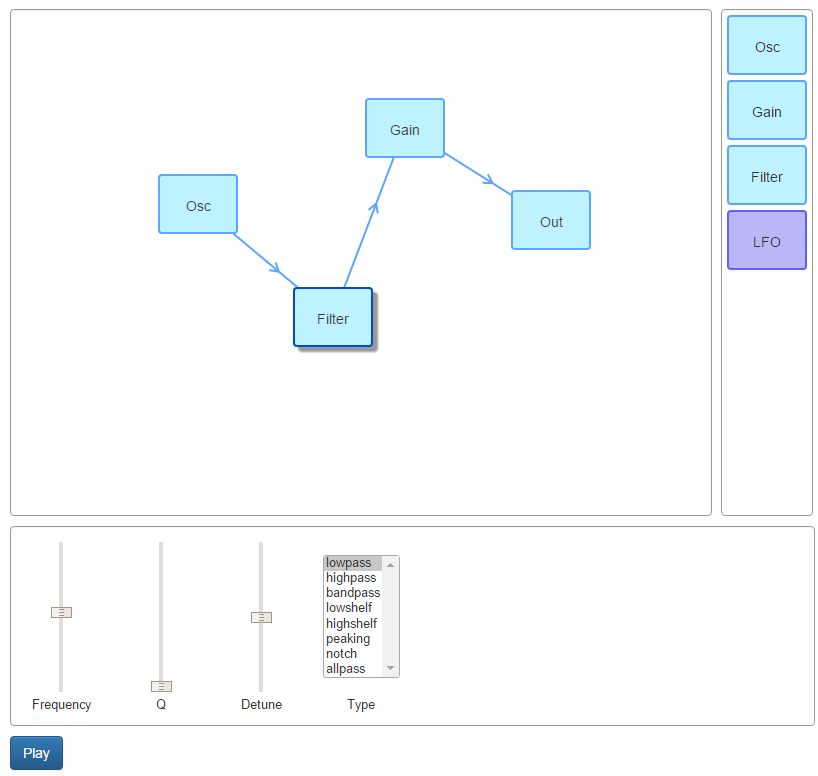
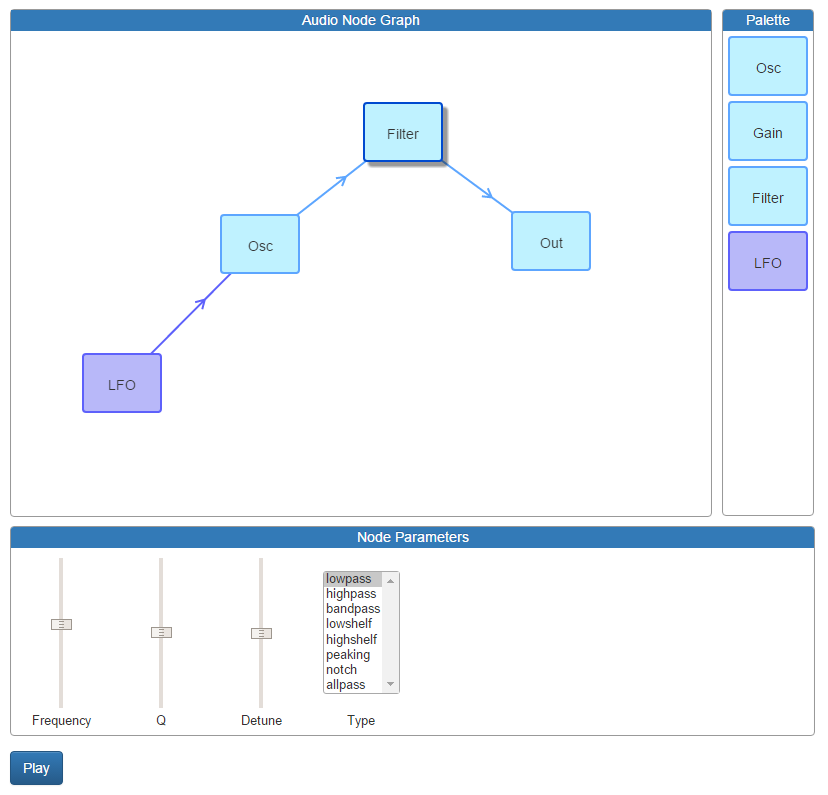
Updated synth app

diff --git a/synth/js/bundle.js b/synth/js/bundle.js
@@ -58,10 +58,13 @@
 	        _super.apply(this, arguments);
 	    }
 	    SynthNode.prototype.addInput = function (n) {
+	        var _this = this;
 	        _super.prototype.addInput.call(this, n);
-	        if (n.nodeDef.control) {
-	            if (!n.controlParam)
-	                n.controlParam = Object.keys(this.nodeDef.params)[0];
+	        if (n.nodeDef.control && !this.nodeDef.control) {
+	            n.controlParams = Object.keys(this.nodeDef.params)
+	                .filter(function (pname) { return _this.anode[pname] instanceof AudioParam; });
+	            n.controlParam = n.controlParams[0];
+	            n.controlTarget = this.anode;
 	            n.anode.connect(this.anode[n.controlParam]);
 	        }
 	        else
@@ -69,14 +72,12 @@
 	    };
 	    SynthNode.prototype.removeInput = function (np) {
 	        var removed = _super.prototype.removeInput.call(this, np);
-	        if (removed.nodeDef.control) {
+	        if (removed.nodeDef.control && !this.nodeDef.control) {
+	            removed.controlParams = null;
 	            removed.anode.disconnect(this.anode[removed.controlParam]);
-	            removed.controlParam = null;
 	        }
-	        else {
-	            //TODO test fan-out
+	        else
 	            removed.anode.disconnect(this.anode);
-	        }
 	        return removed;
 	    };
 	    SynthNode.prototype.canBeSource = function () {
@@ -101,7 +102,7 @@
 	}
 	function registerNodeSelection() {
 	    gr.nodeSelected = function (n) {
-	        paramsUI_1.renderParams(n.anode, synth.palette[n.type], $('.params-box'));
+	        paramsUI_1.renderParams(n, synth.palette[n.type], $('#node-params'));
 	    };
 	}
 	function addOutputNode() {
@@ -190,7 +191,6 @@
 	            .addClass('node')
 	            .text(n.name)
 	            .css({ left: n.x, top: n.y, cursor: 'default' });
-	        //TODO check if $.addClass admits multiple classes
 	        if (classes)
 	            n.element.addClass(classes);
 	        this.nodeCanvas.append(n.element);
@@ -487,7 +487,7 @@
 	            gain: {
 	                initial: 1,
 	                min: 0,
-	                max: 1,
+	                max: 10,
 	                linear: true
 	            }
 	        }
@@ -510,6 +510,16 @@
 	            }
 	        },
 	    },
+	    Delay: {
+	        constructor: 'createDelay',
+	        params: {
+	            delayTime: {
+	                initial: 1,
+	                min: 0,
+	                max: 5
+	            }
+	        }
+	    },
 	    // Controllers
 	    LFO: {
 	        constructor: 'createOscillator',
@@ -527,6 +537,19 @@
 	            }
 	        }
 	    },
+	    GainCtrl: {
+	        constructor: 'createGain',
+	        control: true,
+	        params: {
+	            gain: {
+	                initial: 10,
+	                min: 0,
+	                max: 1000,
+	                linear: true
+	            }
+	        }
+	    },
+	    // Output
 	    Speaker: {
 	        constructor: null,
 	        params: null
@@ -538,14 +561,17 @@
 /* 3 */
 /***/ function(module, exports) {
 
-	function renderParams(anode, ndef, panel) {
+	//TODO refactor main so "n" can be typed to SynthNode
+	function renderParams(n, ndef, panel) {
 	    panel.empty();
+	    if (ndef.control)
+	        renderParamControl(n, panel);
 	    for (var _i = 0, _a = Object.keys(ndef.params || {}); _i < _a.length; _i++) {
 	        var param = _a[_i];
-	        if (anode[param] instanceof AudioParam)
-	            renderAudioParam(anode, ndef, param, panel);
+	        if (n.anode[param] instanceof AudioParam)
+	            renderAudioParam(n.anode, ndef, param, panel);
 	        else
-	            renderOtherParam(anode, ndef, param, panel);
+	            renderOtherParam(n.anode, ndef, param, panel);
 	    }
 	}
 	exports.renderParams = renderParams;
@@ -557,33 +583,59 @@
 	        .attr('min', 0)
 	        .attr('max', 1)
 	        .attr('step', 0.001)
-	        .attr('value', param2slider(aparam.value, pdef))
-	        .on('input', function (_) {
-	        var value = slider2param(parseFloat(slider.val()), pdef);
-	        //TODO linear/log ramp at frame rate
-	        aparam.setValueAtTime(value, 0);
-	    });
+	        .attr('value', param2slider(aparam.value, pdef));
+	    var numInput = $('<input type="number">')
+	        .attr('min', pdef.min)
+	        .attr('max', pdef.max)
+	        .attr('value', aparam.value);
+	    sliderBox.append(numInput);
 	    sliderBox.append(slider);
-	    slider.after('<br/>' + ucfirst(param));
+	    sliderBox.append($('<span><br/>' + ucfirst(param) + '</span>'));
 	    panel.append(sliderBox);
+	    slider.on('input', function (_) {
+	        var value = slider2param(parseFloat(slider.val()), pdef);
+	        numInput.val(truncateFloat(value, 5));
+	        aparam.setValueAtTime(value, 0); //TODO linear/log ramp at frame rate
+	    });
+	    numInput.on('input', function (_) {
+	        var value = numInput.val();
+	        if (value.length == 0 || isNaN(value))
+	            return;
+	        slider.val(param2slider(value, pdef));
+	        aparam.setValueAtTime(value, 0); //TODO linear/log ramp at frame rate
+	    });
+	}
+	function renderParamControl(n, panel) {
+	    if (!n.controlParams)
+	        return;
+	    var combo = renderCombo(panel, n.controlParams, n.controlParam, 'Controlling');
+	    combo.on('input', function (_) {
+	        if (n.controlParam)
+	            n.anode.disconnect(n.controlTarget[n.controlParam]);
+	        n.controlParam = combo.val();
+	        n.anode.connect(n.controlTarget[n.controlParam]);
+	    });
 	}
 	function renderOtherParam(anode, ndef, param, panel) {
-	    var pdef = ndef.params[param];
+	    var combo = renderCombo(panel, ndef.params[param].choices, anode[param], ucfirst(param));
+	    combo.on('input', function (_) {
+	        anode[param] = combo.val();
+	    });
+	}
+	function renderCombo(panel, choices, selected, label) {
 	    var choiceBox = $('<div class="choice-box">');
-	    var combo = $('<select>').attr('size', pdef.choices.length);
-	    for (var _i = 0, _a = pdef.choices; _i < _a.length; _i++) {
-	        var choice = _a[_i];
+	    var combo = $('<select>').attr('size', choices.length);
+	    for (var _i = 0; _i < choices.length; _i++) {
+	        var choice = choices[_i];
 	        var option = $('<option>').text(choice);
-	        if (choice == anode[param])
+	        if (choice == selected)
 	            option.attr('selected', 'selected');
 	        combo.append(option);
 	    }
 	    choiceBox.append(combo);
-	    combo.after('<br/><br/>' + ucfirst(param));
+	    combo.after('<br/><br/>' + label);
 	    panel.append(choiceBox);
-	    combo.on('input', function (_) {
-	        anode[param] = combo.val();
-	    });
+	    return combo;
 	}
 	var LOG_BASE = 2;
 	function logarithm(base, x) {
@@ -612,6 +664,14 @@
 	//-------------------- Misc utilities --------------------
 	function ucfirst(str) {
 	    return str[0].toUpperCase() + str.substring(1);
+	}
+	function truncateFloat(f, len) {
+	    var s = '' + f;
+	    s = s.substr(0, len);
+	    if (s[s.length - 1] == '.')
+	        return s.substr(0, len - 1);
+	    else
+	        return s;
 	}
 
 

diff --git a/synth/index.html b/synth/index.html
@@ -11,25 +11,33 @@
 </head>
 <body>
 
-	<!--------------- Graph canvas --------------->
-	<div class="canvas-box graph-box">
-		<h5 class="bg-primary box-header">Audio Node Graph</h5>
-		<canvas id="graph-canvas" class="graph" width="700" height="480"></canvas>
+	<div>
+		<!--------------- Graph canvas --------------->
+		<div class="graph-box">
+			<h5 class="bg-primary box-header">Audio Node Graph</h5>
+			<div class="canvas-box">
+				<canvas id="graph-canvas" class="graph" width="700" height="480"></canvas>
+			</div>
+		</div><!--
+	
+		--------------- Node palette ---------------
+	--><div class="palette graph-box">
+			<h5 class="bg-primary box-header">Palette</h5>
+			<div class="node" data-type="Oscillator">Osc</div>
+			<div class="node" data-type="Gain">Gain</div>
+			<div class="node" data-type="Filter">Filter</div>
+			<div class="node" data-type="Delay">Delay</div>
+			<div class="node node-ctrl" data-type="LFO">LFO</div>
+			<div class="node node-ctrl" data-type="GainCtrl">Gain Ctrl</div>
+		</div>
 	</div>
 
-	<!--------------- Node palette --------------->
-	<div class="palette graph-box">
-		<h5 class="bg-primary box-header">Palette</h5>
-		<div class="node" data-type="Oscillator">Osc</div>
-		<div class="node" data-type="Gain">Gain</div>
-		<div class="node" data-type="Filter">Filter</div>
-		<div class="node node-ctrl" data-type="LFO">LFO</div>
-	</div>
-
-	<!--------------- Current node parameters --------------->
-	<div class="graph-box">
-		<h5 class="bg-primary box-header" id="node-params-hdr">Node Parameters</h5>
-		<div class="params-box"></div>
+	<div>
+		<!--------------- Current node parameters --------------->
+		<div class="params-box graph-box">
+			<h5 class="bg-primary box-header" id="node-params-hdr">Node Parameters</h5>
+			<div id="node-params"></div>
+		</div>
 	</div>
 
 	<!--------------- Misc controls --------------->

diff --git a/synth/css/main.css b/synth/css/main.css
@@ -27,7 +27,6 @@ body {
 	margin: 0;
 	overflow: hidden;
 	position: relative;
-	display: inline-block;
 }
 
 .node {
@@ -60,8 +59,7 @@ body {
 }
 
 .palette {
-	margin-left: 5px;
-	display: inline-block;
+	margin-left: 10px;
 	height: 507px;
 	vertical-align: top;
 	overflow-y: auto;
@@ -74,18 +72,18 @@ body {
 }
 
 .params-box {
-	height: 190px;
+	height: 210px;
 	width: 805px;
 	margin-top: 5px;
 	margin-bottom: 10px;
-	overflow: auto;
+	overflow-x: auto;
 }
 
 input[type=range][orient=vertical] {
 	writing-mode: bt-lr; /* IE */
 	-webkit-appearance: slider-vertical; /* WebKit */
 	width: 50px;
-	height: 150px;
+	height: 125px;
 	padding: 0 5px;
 	display: inline-block;
 }
@@ -94,16 +92,22 @@ input[type=range][orient=vertical] {
 	display: inline-block;
 	text-align: center;
 	width: 100px;
-	margin-top: 15px;
+	margin-top: 7px;
 	font-size: 90%;
 	line-height: 1.4em;
+}
+
+.slider-box input[type=number] {
+	width: 60px;
+	text-align: center;
+	margin-bottom: 5px;
 }
 
 .choice-box {
 	display: inline-block;
 	text-align: center;
 	width: 100px;
-	margin-top: 15px;
+	margin-top: 10px;
 	font-size: 90%;
 	line-height: 1.4em;
 }
